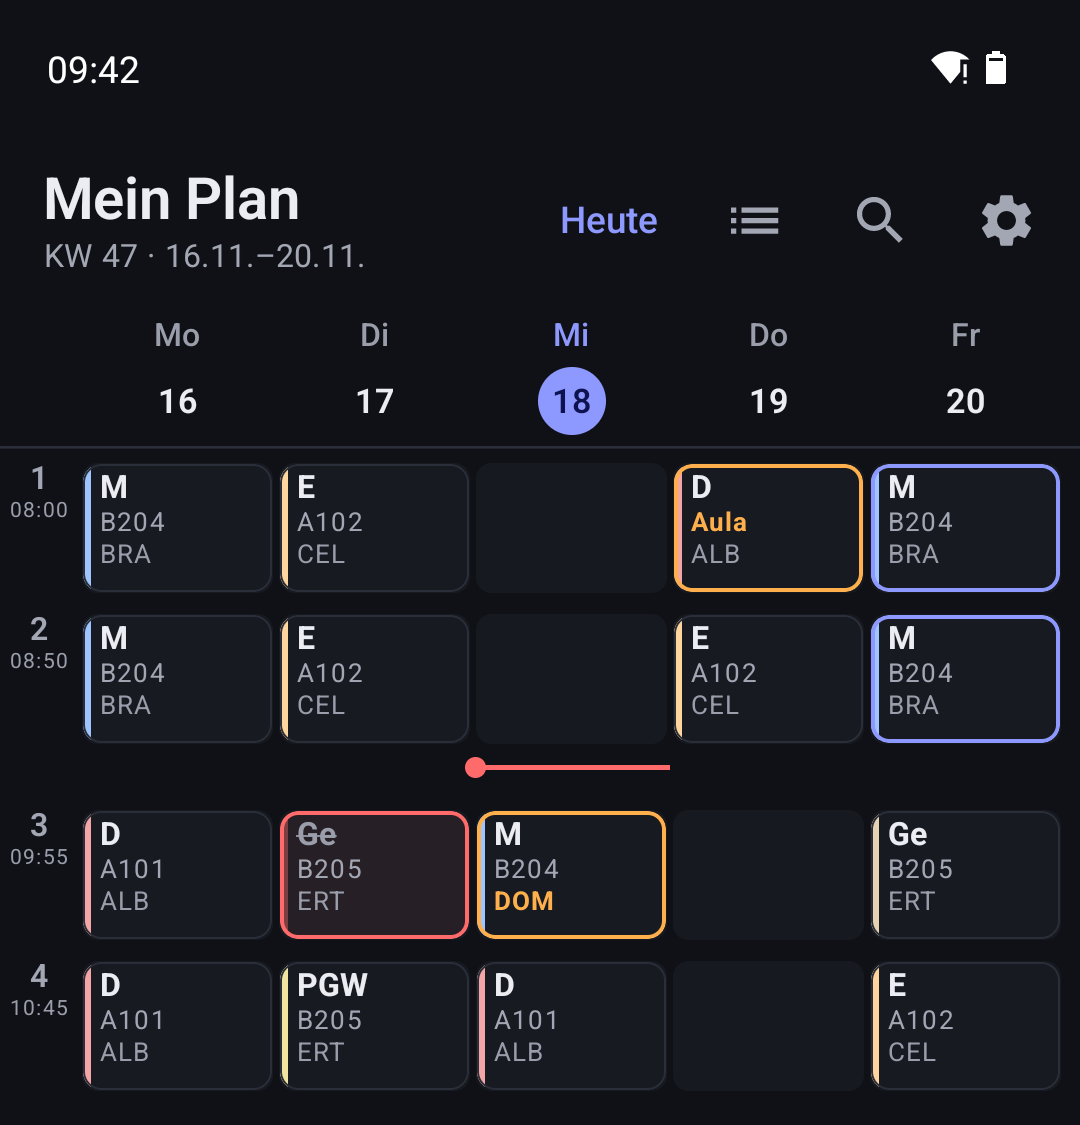
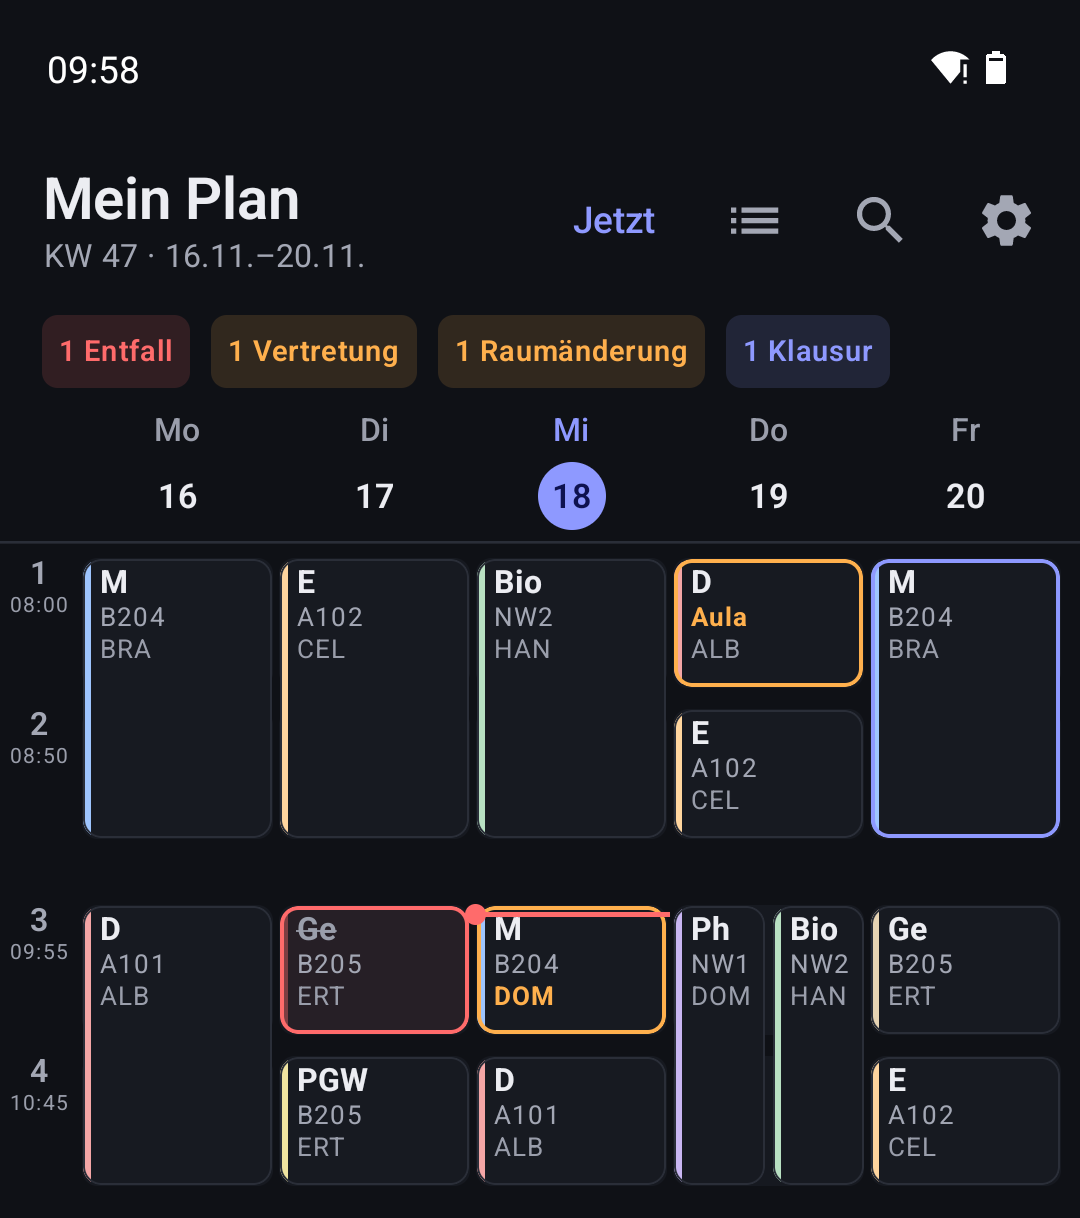
Doku auf v0.11: Website, README-Bilder, Testliste
Website: Abschnitt „Was zeigt Stundenblick, das Untis Mobile nicht zeigt?“
mit Heute, freien Räumen, Info Center und voraussichtlicher Woche,
Banner und Vergleichstabelle auf 0.11, Meldungen prüfen diese und die
nächste Woche (nicht 7 Tage), APK 1,4 MB. Alle Screenshots neu aus der
Demo, README zeigt Woche, Heute, Schule und Anmeldung.

diff --git a/docs/index.html b/docs/index.html
@@ -4,7 +4,7 @@
 <meta charset="utf-8">
 <meta name="viewport" content="width=device-width, initial-scale=1">
 <title>Stundenblick: Untis-Stundenplan-App für Android, Alternative zu BetterUntis</title>
-<meta name="description" content="Stundenblick ist eine freie Android-App für WebUntis-Schulen: alle freigegebenen Stundenpläne, Ausfälle und Vertretungen auf einen Blick. Nachfolger von BetterUntis, ohne Tracking.">
+<meta name="description" content="Stundenblick ist eine freie Android-App für WebUntis-Schulen: alle freigegebenen Stundenpläne, Ausfälle und Vertretungen, freie Räume und Klausuren auf einen Blick. Nachfolger von BetterUntis, ohne Tracking.">
 <link rel="canonical" href="https://brickystudios.github.io/stundenblick/">
 <meta property="og:type" content="website">
 <meta property="og:locale" content="de_DE">
@@ -27,7 +27,7 @@
   "name": "Stundenblick",
   "operatingSystem": "Android 8.0+",
   "applicationCategory": "EducationalApplication",
-  "description": "Freie Android-App für WebUntis-Schulen: Stundenpläne von Klassen, Lehrkräften und Räumen, Ausfälle und Vertretungen markiert, Kursfilter, Offline-Cache, Meldungen bei Änderungen. Nachfolger von BetterUntis.",
+  "description": "Freie Android-App für WebUntis-Schulen: Stundenpläne von Klassen, Lehrkräften und Räumen, Ausfälle und Vertretungen markiert, freie Räume der ganzen Schule, Klausuren, Hausaufgaben und Fehlzeiten, Kursfilter, Offline-Cache, Meldungen bei Änderungen. Nachfolger von BetterUntis.",
   "offers": { "@type": "Offer", "price": "0", "priceCurrency": "EUR" },
   "license": "https://www.gnu.org/licenses/gpl-3.0.html",
   "downloadUrl": "https://github.com/BrickyStudios/stundenblick/releases/latest/download/Stundenblick.apk",
@@ -45,12 +45,14 @@
       "acceptedAnswer": { "@type": "Answer", "text": "Abgeschaltet ist nichts: Die Untis-Schnittstelle, die auch Untis Mobile nutzt, liefert weiter Stundenpläne (geprüft am 15.11.2026). BetterUntis hat aber seit der Version 4.0.3 vom 6. November 2023 keine stabile Version mehr bekommen. Stundenblick ist ein neu geschriebener, freier Nachfolger." } },
     { "@type": "Question", "name": "Welche Untis-Pläne zeigt Stundenblick?",
       "acceptedAnswer": { "@type": "Answer", "text": "Jeden Stundenplan, den deine Schule für dein Konto freigibt: deine Klasse, andere Klassen, Lehrkräfte, Räume und Fächer, als Woche oder Tag, mit Stundeninhalt und Hausaufgaben. Oberstufenkurse, die du nicht hast, lassen sich ausblenden." } },
+    { "@type": "Question", "name": "Was zeigt Stundenblick, das Untis Mobile nicht zeigt?",
+      "acceptedAnswer": { "@type": "Answer", "text": "Eine Heute-Seite mit Restminuten und nächster Stunde, die freien Räume der ganzen Schule für jede Stunde, ein Info Center mit Klausuren, Hausaufgaben zum Abhaken, Fehlzeiten und Sprechstunden, und die ganze Woche im Voraus, auch wenn die Schule nur den nächsten Tag freigibt." } },
     { "@type": "Question", "name": "Was passiert, wenn eine Stunde ausfällt?",
-      "acceptedAnswer": { "@type": "Answer", "text": "Entfall ist rot und durchgestrichen, Vertretung und Raumänderung orange mit dem alten Namen daneben, Klausuren blau. Einmal pro Stunde prüft die App die nächsten 7 Tage und meldet neue Änderungen." } },
+      "acceptedAnswer": { "@type": "Answer", "text": "Entfall ist rot und durchgestrichen, Vertretung und Raumänderung orange mit dem alten Namen daneben, Klausuren blau. Einmal pro Stunde prüft die App diese und die nächste Woche und meldet neue Änderungen." } },
     { "@type": "Question", "name": "Reicht der QR-Code aus WebUntis?",
       "acceptedAnswer": { "@type": "Answer", "text": "Ja, der QR-Code aus WebUntis (Profil, Freigaben, Anzeigen) ist der einfachste Weg und klappt auch mit Zwei-Faktor-Anmeldung. Alternativ mit Benutzername und Passwort oder ohne Anmeldung, wenn die Schule öffentliche Pläne hat." } },
     { "@type": "Question", "name": "Was braucht mein Handy?",
-      "acceptedAnswer": { "@type": "Answer", "text": "Android 8.0 oder neuer. Google-Dienste sind nicht nötig, die App läuft auch auf GrapheneOS. Das APK ist 1,3 MB groß. Die App spricht nur mit dem WebUntis-Server deiner Schule und für Updates mit GitHub; das Passwort wird nie gespeichert." } }
+      "acceptedAnswer": { "@type": "Answer", "text": "Android 8.0 oder neuer. Google-Dienste sind nicht nötig, die App läuft auch auf GrapheneOS. Das APK ist 1,4 MB groß. Die App spricht nur mit dem WebUntis-Server deiner Schule und für Updates mit GitHub; das Passwort wird nie gespeichert." } }
   ]
 }
 </script>
@@ -59,7 +61,7 @@
 
 <div class="banner">
   <div class="container">
-    <p>Testversion 0.9: Die Anmeldung mit echtem Konto ist noch ungetestet.</p>
+    <p>Testversion 0.11: QR-Anmeldung mit echtem Schulkonto getestet.</p>
     <a href="https://github.com/BrickyStudios/stundenblick/issues">Fehler melden</a>
   </div>
 </div>
@@ -81,9 +83,9 @@
           <a class="link" href="https://github.com/BrickyStudios/stundenblick"><span>Quellcode lesen</span></a>
         </div>
       </div>
-      <figure class="shot" style="aspect-ratio: 1080 / 1125" data-slot="hero" data-kind="product" data-alt="Wochenansicht der App mit Entfall, Vertretung und Klausur">
-        <img src="bilder/app/week-crop.png" width="1080" height="1125" fetchpriority="high"
-             alt="Wochenansicht der Demo-Schule: Mittwoch markiert, eine rote Jetzt-Linie, Geschichte am Dienstag rot durchgestrichen, Mathe am Mittwoch orange mit Vertretung, Freitag blau umrandet für eine Klausur">
+      <figure class="shot" style="aspect-ratio: 1080 / 1218" data-slot="hero" data-kind="product" data-alt="Wochenansicht der App mit Entfall, Vertretung und Klausur">
+        <img src="bilder/app/week-crop.png" width="1080" height="1218" fetchpriority="high"
+             alt="Wochenansicht der Demo-Schule: Mittwoch markiert, eine rote Jetzt-Linie, Geschichte am Dienstag rot durchgestrichen, Mathe am Mittwoch orange mit Vertretung, Donnerstag orange für eine Raumänderung, Freitag blau umrandet für eine Klausur">
       </figure>
     </div>
   </div>
@@ -95,7 +97,8 @@
       <table class="compare">
         <thead><tr><th scope="col"></th><th scope="col">BetterUntis</th><th scope="col">Stundenblick</th></tr></thead>
         <tbody>
-          <tr><th scope="row">Letzte stabile Version</th><td>4.0.3 vom 6. November 2023</td><td>0.9 vom November 2026</td></tr>
+          <tr><th scope="row">Letzte stabile Version</th><td>4.0.3 vom 6. November 2023</td><td>0.11 vom November 2026</td></tr>
+          <tr><th scope="row">Freie Räume</th><td>Raumfinder für gewählte Räume</td><td>alle Räume der Schule, jede Stunde</td></tr>
           <tr><th scope="row">Eigener Plan leer</th><td>offenes Issue #503</td><td>ein Tipp: Klasse als eigenen Plan setzen</td></tr>
           <tr><th scope="row">Schnittstelle</th><td>die interne von Untis Mobile</td><td>dieselbe, am 15.11.2026 geprüft</td></tr>
           <tr><th scope="row">Lizenz</th><td>GPL-3.0</td><td>GPL-3.0</td></tr>
@@ -116,15 +119,46 @@
         </div>
         <div class="panel" role="tabpanel" id="p-tag" aria-labelledby="t-tag">
           <div><h3>Der Tag mit vollen Namen</h3><p>Wer unterrichtet, in welchem Raum, und wer eigentlich dran gewesen wäre.</p></div>
-          <figure class="shot" style="aspect-ratio: 1080 / 1506" data-slot="tag" data-kind="product" data-alt="Tagesansicht"><img src="bilder/app/day-crop.png" width="1080" height="1506" loading="lazy" alt="Tagesansicht: Mathematik mit Vertretung, die alte Lehrkraft durchgestrichen"></figure>
+          <figure class="shot" style="aspect-ratio: 1080 / 1650" data-slot="tag" data-kind="product" data-alt="Tagesansicht"><img src="bilder/app/day-crop.png" width="1080" height="1650" loading="lazy" alt="Tagesansicht mit Pausen: Mathematik mit Vertretung, die alte Lehrkraft durchgestrichen"></figure>
         </div>
         <div class="panel" role="tabpanel" id="p-stunde" aria-labelledby="t-stunde" hidden>
           <div><h3>Jede Stunde im Detail</h3><p>Stundeninhalt und Hausaufgaben, sobald die Lehrkraft sie in WebUntis einträgt.</p></div>
-          <figure class="shot" style="aspect-ratio: 1080 / 900" data-slot="stunde" data-kind="product" data-alt="Stunden-Details"><img src="bilder/app/detail-crop.png" width="1080" height="900" loading="lazy" alt="Details einer Mathestunde mit Stundeninhalt und Hausaufgabe"></figure>
+          <figure class="shot" style="aspect-ratio: 1080 / 935" data-slot="stunde" data-kind="product" data-alt="Stunden-Details"><img src="bilder/app/detail-crop.png" width="1080" height="935" loading="lazy" alt="Details einer Mathestunde mit Stundeninhalt und Hausaufgabe"></figure>
         </div>
         <div class="panel" role="tabpanel" id="p-kurse" aria-labelledby="t-kurse" hidden>
           <div><h3>Nur deine Kurse</h3><p>In der Oberstufe wählst du pro Plan ab, welche Fächer du nicht hast.</p></div>
           <figure class="shot" style="aspect-ratio: 1080 / 1076" data-slot="kurse" data-kind="product" data-alt="Kursfilter in den Einstellungen"><img src="bilder/app/kurse-crop.png" width="1080" height="1076" loading="lazy" alt="Einstellungen mit Kursfilter: Biologie und Physik abgewählt"></figure>
+        </div>
+      </div>
+    </div>
+  </section>
+
+  <section id="mehr-als-untis">
+    <div class="container">
+      <h2>Was zeigt Stundenblick, das Untis Mobile nicht zeigt?</h2>
+      <p class="answer">Alles, was BetterUntis konnte, und mehr.</p>
+      <div data-switch>
+        <div class="tabs" role="tablist" aria-label="Mehr als Untis">
+          <button type="button" role="tab" id="t-heute" aria-controls="p-heute" aria-selected="true">Heute</button>
+          <button type="button" role="tab" id="t-raeume" aria-controls="p-raeume" aria-selected="false" tabindex="-1">Räume</button>
+          <button type="button" role="tab" id="t-info" aria-controls="p-info" aria-selected="false" tabindex="-1">Infos</button>
+          <button type="button" role="tab" id="t-voraus" aria-controls="p-voraus" aria-selected="false" tabindex="-1">Woche</button>
+        </div>
+        <div class="panel" role="tabpanel" id="p-heute" aria-labelledby="t-heute">
+          <div><h3>Was jetzt dran ist</h3><p>Die laufende Stunde mit Restminuten, die nächste, Hausaufgaben bis morgen und die nächste Klausur.</p></div>
+          <figure class="shot" style="aspect-ratio: 1080 / 1670" data-slot="heute" data-kind="product" data-alt="Heute-Seite"><img src="bilder/app/heute-crop.png" width="1080" height="1670" loading="lazy" alt="Heute-Seite: Mathematik läuft noch 41 Minuten mit Vertretung, als Nächstes Deutsch, Nachricht der Schule und Hausaufgaben bis morgen"></figure>
+        </div>
+        <div class="panel" role="tabpanel" id="p-raeume" aria-labelledby="t-raeume" hidden>
+          <div><h3>Welcher Raum gerade frei ist</h3><p>Aus allen Klassenplänen: die freien Räume jeder Stunde, bis wann sie frei sind und wer wo Unterricht hat.</p></div>
+          <figure class="shot" style="aspect-ratio: 1080 / 1620" data-slot="raeume" data-kind="product" data-alt="Freie Räume der Schule"><img src="bilder/app/schule-crop.png" width="1080" height="1620" loading="lazy" alt="Schule in der 3. Stunde: 5 von 8 Räumen frei, B205 frei bis 11:50, die anderen bis Schulschluss"></figure>
+        </div>
+        <div class="panel" role="tabpanel" id="p-info" aria-labelledby="t-info" hidden>
+          <div><h3>Klausuren, Hausaufgaben, Fehlzeiten</h3><p>Klausuren mit Countdown, Hausaufgaben zum Abhaken, dazu Sprechstunden und die Nachricht des Tages.</p></div>
+          <figure class="shot" style="aspect-ratio: 1080 / 1100" data-slot="info" data-kind="product" data-alt="Klausurenliste"><img src="bilder/app/klausuren-crop.png" width="1080" height="1100" loading="lazy" alt="Klausuren: Mathematik in 5 Tagen, Englisch in 12 Tagen, Biologie in 30 Tagen, jeweils mit Raum"></figure>
+        </div>
+        <div class="panel" role="tabpanel" id="p-voraus" aria-labelledby="t-voraus" hidden>
+          <div><h3>Die Woche, auch wenn die Schule nur morgen zeigt</h3><p>Fehlende Tage kommen blass aus einer früheren Woche, bis die Schule sie freigibt.</p></div>
+          <figure class="shot" style="aspect-ratio: 1080 / 1450" data-slot="voraus" data-kind="product" data-alt="Voraussichtliche Woche"><img src="bilder/app/vorschau-crop.png" width="1080" height="1450" loading="lazy" alt="Nächste Woche: Montag bis Mittwoch normal, Donnerstag und Freitag blass mit dem Hinweis voraussichtlich"></figure>
         </div>
       </div>
     </div>
@@ -137,7 +171,7 @@
         <div><dt>Entfall</dt><dd>Rot und durchgestrichen, im Raster wie in der Tagesliste.</dd></div>
         <div><dt>Vertretung und Raumänderung</dt><dd>Orange, der neue Name vorn, der alte durchgestrichen daneben.</dd></div>
         <div><dt>Klausur</dt><dd>Blau umrandet, mit der Art der Prüfung.</dd></div>
-        <div><dt>Meldung aufs Handy</dt><dd>Einmal pro Stunde prüft die App die nächsten 7 Tage. So sieht eine Meldung aus:<span class="sample">„Di. 17.11., 3. Std.: Ge entfällt“</span></dd></div>
+        <div><dt>Meldung aufs Handy</dt><dd>Einmal pro Stunde prüft die App diese und die nächste Woche. So sieht eine Meldung aus:<span class="sample">„Di. 17.11., 3. Std.: Ge entfällt“</span></dd></div>
       </dl>
     </div>
   </section>
@@ -163,7 +197,7 @@
       <dl class="spec">
         <div><dt>Android</dt><dd>8.0 oder neuer</dd></div>
         <div><dt>Google-Dienste</dt><dd>nicht nötig, auch GrapheneOS</dd></div>
-        <div><dt>Download</dt><dd>1,3&nbsp;MB</dd></div>
+        <div><dt>Download</dt><dd>1,4&nbsp;MB</dd></div>
         <div><dt>Verbindungen</dt><dd>WebUntis und GitHub</dd></div>
         <div><dt>Passwort</dt><dd>wird nie gespeichert</dd></div>
       </dl>
@@ -180,7 +214,7 @@
           <a class="link" href="https://github.com/BrickyStudios/stundenblick/releases"><span>Alle Versionen</span></a>
         </div>
       </div>
-      <figure class="shot" style="aspect-ratio: 1080 / 1125" data-slot="dunkel" data-kind="product" data-alt="Wochenansicht im Dunkelmodus"><img src="bilder/app/dark-crop.png" width="1080" height="1125" loading="lazy" alt="Wochenansicht im Dunkelmodus, Biologie und Physik ausgeblendet"></figure>
+      <figure class="shot" style="aspect-ratio: 1080 / 1218" data-slot="dunkel" data-kind="product" data-alt="Wochenansicht im Dunkelmodus"><img src="bilder/app/dark-crop.png" width="1080" height="1218" loading="lazy" alt="Wochenansicht im Dunkelmodus mit Entfall, Vertretung und Klausur"></figure>
     </div>
   </section>
 </main>

diff --git a/README.md b/README.md
@@ -2,7 +2,7 @@
 
 <h1 align="center">Stundenblick: Untis-Stundenplan-App für Android, quelloffener Nachfolger von BetterUntis</h1>
 
-<p align="center"><strong>Alle Stundenpläne, die deine Schule in WebUntis für dich freigibt: deine Klasse, andere Klassen, Lehrkräfte, Räume. Ausfall, Vertretung, Raumänderung und Klausur sind farbig markiert, Oberstufenkurse lassen sich ausblenden, der Plan bleibt offline lesbar, und eine Meldung kommt, wenn sich etwas ändert. Ohne Tracking, ohne Google-Dienste, GPL-3.0.</strong></p>
+<p align="center"><strong>Alle Stundenpläne, die deine Schule in WebUntis für dich freigibt: deine Klasse, andere Klassen, Lehrkräfte, Räume. Ausfall, Vertretung, Raumänderung und Klausur sind farbig markiert, freie Räume der ganzen Schule stehen auf einen Blick bereit, Oberstufenkurse lassen sich ausblenden, der Plan bleibt offline lesbar, und eine Meldung kommt, wenn sich etwas ändert. Ohne Tracking, ohne Google-Dienste, GPL-3.0.</strong></p>
 
 <p align="center">
   <a href="https://kotlinlang.org/"><img alt="Made with Kotlin" src="https://img.shields.io/badge/made_with-Kotlin-14161D?style=for-the-badge&logo=kotlin&logoColor=8E99FF"></a>
@@ -22,8 +22,8 @@
 
 <p align="center">
   <img src="docs/bilder/1-woche.png" width="200" alt="Die ganze Woche auf einen Blick: Wochenraster mit Entfall, Vertretung, Raumänderung und Klausur">
-  <img src="docs/bilder/2-tag.png" width="200" alt="Tagesansicht mit vollen Namen, die vertretene Lehrkraft durchgestrichen">
-  <img src="docs/bilder/3-details.png" width="200" alt="Stunden-Details mit Stundeninhalt und Hausaufgabe">
+  <img src="docs/bilder/2-heute.png" width="200" alt="Heute-Seite: laufende Stunde mit Restminuten, nächste Stunde, Hausaufgaben bis morgen">
+  <img src="docs/bilder/3-schule.png" width="200" alt="Freie Räume der ganzen Schule in der 3. Stunde, jeweils frei bis wann">
   <img src="docs/bilder/4-anmelden.png" width="200" alt="Anmeldung per QR-Code aus WebUntis, auch mit Zwei-Faktor">
 </p>
 <p align="center"><sub>Screenshots aus der eingebauten Demo-Schule. Alle Namen dort sind erfunden.</sub></p>
@@ -45,7 +45,7 @@
 - **Pausen-Info** wie bei BetterUntis: in jeder Pause still die nächste Stunde mit Raum.
 - **Stunden-Details:** Stundeninhalt, Hausaufgaben und Infotext, soweit die Schule sie einträgt.
 - **Kurse ausblenden:** in den Einstellungen oder per langem Druck auf eine Stunde, mit Rückgängig.
-- **Offline, Meldungen, Widget:** geladene Wochen bleiben gespeichert; einmal pro Stunde meldet die App neue Ausfälle, Vertretungen, Raumänderungen und Klausuren; das Widget zeigt den Tag.
+- **Offline, Meldungen, Widget:** geladene Wochen bleiben gespeichert; einmal pro Stunde prüft die App diese und die nächste Woche und meldet neue Ausfälle, Vertretungen, Raumänderungen und Klausuren; das Widget zeigt den Tag.
 - **Änderungsverlauf** der letzten 60 Tage und ein **Verbindungstest**, der zeigt, welche Infos deine Schule freigibt (Klausuren, Hausaufgaben, Nachrichten, Sprechstunden, Fehlzeiten), ohne Inhalte auszugeben.
 - **Demo-Schule:** ausprobieren ohne Konto.
 
@@ -53,6 +53,7 @@
 
 - Sie zeigt nur, was deine Schule für dein Konto freigibt. Blendet die Schule Lehrkräfte oder fremde Klassen aus, fehlen sie auch hier.
 - Abwesenheiten melden und Nachrichten schreiben fehlen bewusst.
+- Die voraussichtliche Woche kennt keine A/B-Wochen: sie übernimmt immer die nächstgelegene frühere Woche.
 - Nur Android. Eine iOS-Version bräuchte ein Apple-Entwicklerkonto und die App-Store-Prüfung.
 
 ## Installieren
@@ -76,7 +77,7 @@
 ./gradlew testDebugUnitTest assembleDebug   # JDK 17
 ```
 
-Die Tests prüfen den Einmal-Code (RFC-6238-Vektoren), den QR-Link inklusive fremder Server, die Fehlertexte, den Parser an der Demo-Schule, den Kursfilter, den Abgleich für Meldungen und dass der Verbindungstest keine Geheimnisse enthält.
+Die Tests prüfen den Einmal-Code (RFC-6238-Vektoren), den QR-Link inklusive fremder Server, die Fehlertexte, den Parser an der Demo-Schule, den Kursfilter, den Abgleich für Meldungen, dass der Verbindungstest keine Geheimnisse enthält, Doppelstunden, Pausen und Freistunden, die freien Räume, die voraussichtliche Woche und das Info Center.
 
 ## Rechtliches
 

diff --git a/TODOS.md b/TODOS.md
@@ -12,7 +12,6 @@ Verbindliche Spezifikation: `~/.gstack/projects/BrickyStudios-stundenblick/plans
 
 - **IzzyOnDroid-Antrag** (fastlane-Metadaten). Updater ist schon abschaltbar.
 - **Testwoche** mit etwa 5 Leuten aus der Stufe: welche Heute-Karte sehen sie wirklich an?
-- **Website** um Heute-Seite, Raumfinder und Pausen-Info ergänzen (Screens aus der Demo).
 
 ## Später
 
